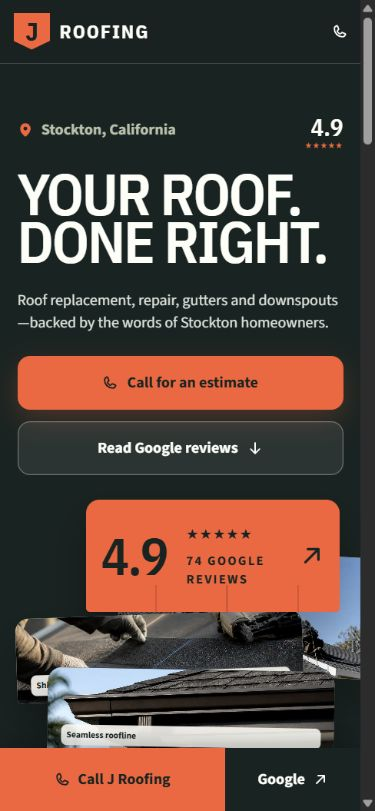
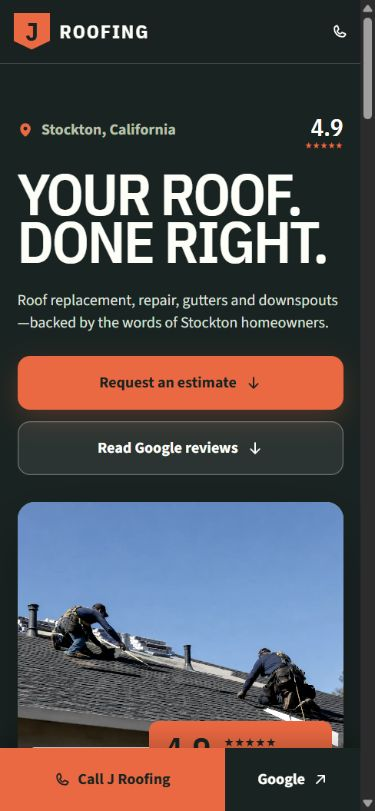
Simplify J Roofing estimate flow

diff --git a/j-roofing/App.tsx b/j-roofing/App.tsx
@@ -1,4 +1,5 @@
 import { ArrowDown, ArrowUpRight, Check, HouseLine, MapPin, Phone, Rows, Wrench } from '@phosphor-icons/react'
+import { useState, type FormEvent } from 'react'
 
 const mapsUrl = 'https://maps.app.goo.gl/vh1RwMz9kn56a45p7'
 
@@ -24,16 +25,26 @@ const services = [
 function Brand() { return <a className="brand" href="#top" aria-label="J Roofing home"><span>J</span><strong>ROOFING</strong></a> }
 
 function App() {
+  const [selectedService, setSelectedService] = useState('Roof replacement')
+
+  function requestEstimate(event: FormEvent<HTMLFormElement>) {
+    event.preventDefault()
+    const data = new FormData(event.currentTarget)
+    const message = `Hi J Roofing, I'd like an estimate.\n\nName: ${data.get('name')}\nPhone: ${data.get('phone')}\nAddress: ${data.get('address')}\nProject: ${data.get('service')}\nDetails: ${data.get('details')}`
+    window.location.href = `sms:+12094837588?body=${encodeURIComponent(message)}`
+  }
+
   return <>
-    <style>{`.mobile-rating{display:none}.sample-repair,.sample-gutter{padding:0}.sample-repair:after,.sample-gutter:after{display:none}.sample-material img{width:100%;height:100%;object-fit:cover;filter:saturate(.72) contrast(1.12)}.sample-material span{position:absolute;inset:auto 14px 14px;z-index:2;padding:7px 10px;border-radius:6px;color:var(--asphalt);background:rgba(255,254,248,.9);font-size:.72rem;font-weight:700}.craft-gallery{padding:0 max(24px,calc((100vw - 1380px)/2)) clamp(96px,10vw,150px);display:grid;grid-template-columns:1.15fr .85fr;gap:18px;background:var(--mineral)}.craft-image{position:relative;min-height:420px;margin:0;overflow:hidden;border-radius:14px;background:var(--asphalt);box-shadow:0 18px 36px rgba(22,35,33,.16)}.craft-image img{width:100%;height:100%;object-fit:cover}.craft-image figcaption{position:absolute;inset:auto 18px 18px;max-width:360px;padding:12px 14px;color:var(--asphalt);background:rgba(255,254,248,.92);border-radius:8px;font-size:.78rem;font-weight:700}.craft-image:last-child{margin-top:72px}@media(max-width:720px){.mobile-rating{position:absolute;top:-4px;right:0;display:flex;flex-direction:column;align-items:flex-end;color:var(--white);text-decoration:none}.mobile-rating strong{font:600 1.55rem/1 'IBM Plex Sans Condensed'}.mobile-rating span{color:var(--orange);font-size:.55rem;letter-spacing:.07em}.hero{padding-bottom:36px;gap:26px}.hero h1{font-size:clamp(3.5rem,15.5vw,4.2rem)}.hero-lead{margin-bottom:22px;font-size:1rem;line-height:1.45}.sample-deck{height:290px}.sample-rating{top:0;right:1%;width:78%;min-height:78px;padding-inline:16px}.sample-photo{top:58px;height:124px}.sample-repair{top:116px;height:88px;min-height:88px}.sample-gutter{top:178px;height:88px;min-height:88px}.rating-number{font-size:3.4rem}.stars{font-size:.95rem}.sample-material span,.sample-photo span{bottom:7px;padding:4px 6px;font-size:.58rem}.craft-gallery{padding:0 18px 88px;grid-template-columns:1fr}.craft-image{min-height:300px}.craft-image:last-child{margin-top:0}}`}</style>
-    <header className="site-header"><div className="nav-shell"><Brand /><nav aria-label="Primary navigation"><a href="#services">Roof systems</a><a href="#reviews">Google reviews</a><a href="#contact">Contact</a></nav><a className="header-call" href="tel:+12094837588"><Phone weight="bold" /> <span>(209) 483-7588</span></a></div></header>
+    <style>{`.mobile-rating{display:none}.hero-visual{position:relative;min-height:540px;overflow:hidden;border-radius:18px;background:var(--sage);box-shadow:0 28px 54px rgba(0,0,0,.28)}.hero-visual>img{width:100%;height:100%;position:absolute;inset:0;object-fit:cover;filter:saturate(.8) contrast(1.08)}.concept-label{position:absolute;left:18px;bottom:18px;padding:8px 11px;border-radius:6px;color:var(--asphalt);background:rgba(255,254,248,.92);font-size:.72rem;font-weight:700}.hero-proof{position:absolute;right:18px;bottom:18px;display:flex;align-items:center;gap:14px;padding:14px 16px;color:var(--asphalt);background:var(--orange);border-radius:10px;text-decoration:none}.hero-proof strong{font:600 2.7rem/.8 'IBM Plex Sans Condensed'}.hero-proof span{display:flex;flex-direction:column;font-size:.75rem;font-weight:700;letter-spacing:.08em}.service{color:inherit;text-decoration:none}.estimate{padding:clamp(96px,10vw,150px) max(24px,calc((100vw - 1380px)/2));display:grid;grid-template-columns:.8fr 1.2fr;gap:clamp(54px,9vw,130px);color:var(--white);background:var(--asphalt)}.estimate-copy p{max-width:480px;color:#cbd5ce;font-size:1.12rem;line-height:1.6}.estimate-form{display:grid;grid-template-columns:1fr 1fr;gap:20px}.estimate-form label{display:grid;gap:8px;font-weight:700}.estimate-form label span{font-size:.76rem;letter-spacing:.09em;text-transform:uppercase}.estimate-form .full{grid-column:1/-1}.estimate-form input,.estimate-form select,.estimate-form textarea{width:100%;min-height:54px;padding:13px 15px;border:1px solid rgba(255,255,255,.28);border-radius:10px;color:var(--white);background:#26332f}.estimate-form textarea{min-height:120px;resize:vertical}.estimate-form select{color-scheme:dark}.estimate-form button{border:0;cursor:pointer}.form-note{grid-column:1/-1;margin:0;color:#aebbb4;font-size:.9rem}.form-note a{color:var(--orange);font-weight:700}.craft-gallery{padding:clamp(96px,10vw,150px) max(24px,calc((100vw - 1380px)/2));display:grid;grid-template-columns:1.15fr .85fr;gap:18px;background:var(--mineral)}.craft-image{position:relative;min-height:420px;margin:0;overflow:hidden;border-radius:14px;background:var(--asphalt);box-shadow:0 18px 36px rgba(22,35,33,.16)}.craft-image img{width:100%;height:100%;object-fit:cover}.craft-image figcaption{position:absolute;inset:auto 18px 18px;max-width:360px;padding:12px 14px;color:var(--asphalt);background:rgba(255,254,248,.92);border-radius:8px;font-size:.78rem;font-weight:700}.craft-image:last-child{margin-top:72px}@media(max-width:720px){.mobile-rating{position:absolute;top:-4px;right:0;display:flex;flex-direction:column;align-items:flex-end;color:var(--white);text-decoration:none}.mobile-rating strong{font:600 1.55rem/1 'IBM Plex Sans Condensed'}.mobile-rating span{color:var(--orange);font-size:.55rem;letter-spacing:.07em}.hero{padding-bottom:36px;gap:28px}.hero h1{font-size:clamp(3.5rem,15.5vw,4.2rem)}.hero-lead{margin-bottom:22px;font-size:1rem;line-height:1.45}.hero-visual{min-height:300px}.concept-label{left:12px;bottom:12px}.hero-proof{right:12px;bottom:12px}.hero-proof strong{font-size:2.2rem}.estimate{padding:88px 18px;grid-template-columns:1fr;gap:42px}.estimate-form{grid-template-columns:1fr}.estimate-form .full{grid-column:auto}.craft-gallery{padding:88px 18px;grid-template-columns:1fr}.craft-image{min-height:300px}.craft-image:last-child{margin-top:0}}`}</style>
+    <header className="site-header"><div className="nav-shell"><Brand /><nav aria-label="Primary navigation"><a href="#services">Roof systems</a><a href="#estimate">Request estimate</a><a href="#reviews">Google reviews</a></nav><a className="header-call" href="tel:+12094837588"><Phone weight="bold" /> <span>(209) 483-7588</span></a></div></header>
     <main id="top">
       <section className="hero">
-        <div className="hero-copy"><p className="location"><MapPin weight="fill" /> Stockton, California</p><a className="mobile-rating" href={mapsUrl} target="_blank" rel="noreferrer" aria-label="4.9 stars from 74 Google reviews"><strong>4.9</strong><span>★★★★★</span></a><h1>Your roof.<br />Done right.</h1><p className="hero-lead">Roof replacement, repair, gutters and downspouts—backed by the words of Stockton homeowners.</p><div className="hero-actions"><a className="button button-primary" href="tel:+12094837588"><Phone weight="bold" /> Call for an estimate</a><a className="button button-quiet" href="#reviews">Read Google reviews <ArrowDown weight="bold" /></a></div></div>
-        <div className="sample-deck" aria-label="J Roofing Google rating and roofing craft"><div className="sample sample-photo"><img src="/roofing/j-roofing/assets/j-roofing-crew.webp" alt="Concept image of a roofing crew installing charcoal shingles" /><span>Original crew concept</span></div><div className="sample sample-material sample-repair"><img src="/roofing/j-roofing/assets/j-roofing-shingle-detail.webp" alt="Concept detail of hands aligning architectural shingles" /><span>Shingle alignment</span></div><div className="sample sample-material sample-gutter"><img src="/roofing/j-roofing/assets/j-roofing-gutters.webp" alt="Concept detail of a dark bronze gutter and downspout" /><span>Seamless roofline</span></div><a className="sample sample-rating" href={mapsUrl} target="_blank" rel="noreferrer" aria-label="View J Roofing on Google Maps"><span className="rating-number">4.9</span><span><span className="stars" aria-label="4.9 out of 5 stars">★★★★★</span><small>74 GOOGLE REVIEWS</small></span><ArrowUpRight weight="bold" /></a></div>
+        <div className="hero-copy"><p className="location"><MapPin weight="fill" /> Stockton, California</p><a className="mobile-rating" href={mapsUrl} target="_blank" rel="noreferrer" aria-label="4.9 stars from 74 Google reviews"><strong>4.9</strong><span>★★★★★</span></a><h1>Your roof.<br />Done right.</h1><p className="hero-lead">Roof replacement, repair, gutters and downspouts—backed by the words of Stockton homeowners.</p><div className="hero-actions"><a className="button button-primary" href="#estimate">Request an estimate <ArrowDown weight="bold" /></a><a className="button button-quiet" href="#reviews">Read Google reviews <ArrowDown weight="bold" /></a></div></div>
+        <div className="hero-visual"><img src="/roofing/j-roofing/assets/j-roofing-crew.webp" alt="Concept image of a roofing crew installing charcoal shingles" /><span className="concept-label">Original crew concept</span><a className="hero-proof" href={mapsUrl} target="_blank" rel="noreferrer" aria-label="View 4.9 rating from 74 Google reviews"><strong>4.9</strong><span>★★★★★<small>74 Google reviews</small></span></a></div>
       </section>
       <section className="proof-strip" aria-label="Business details"><div><Check weight="bold" /><span><small>GOOGLE RATING</small><strong>4.9 from 74 reviews</strong></span></div><div><MapPin weight="bold" /><span><small>ADDRESS</small><strong>1728 E Market St, Stockton</strong></span></div><div><Phone weight="bold" /><span><small>PHONE</small><strong>(209) 483-7588</strong></span></div></section>
-      <section className="services" id="services"><div className="services-intro"><h2>One crew.<br />The whole roofline.</h2><p>J Roofing’s public customer reviews repeatedly mention clear estimates, punctual crews, daily cleanup and careful work—from full reroofs to gutters and dry-rot repairs.</p></div><div className="service-list">{services.map(({ icon: Icon, title, text }) => <article className="service" key={title}><Icon weight="regular" /><div><h3>{title}</h3><p>{text}</p></div><ArrowUpRight weight="bold" /></article>)}</div></section>
+      <section className="services" id="services"><div className="services-intro"><h2>One crew.<br />The whole roofline.</h2><p>J Roofing’s public customer reviews repeatedly mention clear estimates, punctual crews, daily cleanup and careful work—from full reroofs to gutters and dry-rot repairs.</p></div><div className="service-list">{services.map(({ icon: Icon, title, text }) => <a className="service" href="#estimate" onClick={() => setSelectedService(title)} key={title} aria-label={`Request an estimate for ${title}`}><Icon weight="regular" /><div><h3>{title}</h3><p>{text}</p></div><ArrowUpRight weight="bold" /></a>)}</div></section>
+      <section className="estimate" id="estimate"><div className="estimate-copy"><h2>Tell us about your roof.</h2><p>Share the basics and your phone will open a ready-to-send text to J Roofing. No account or upload needed.</p></div><form className="estimate-form" onSubmit={requestEstimate}><label><span>Name</span><input name="name" autoComplete="name" required /></label><label><span>Phone</span><input name="phone" type="tel" autoComplete="tel" required /></label><label className="full"><span>Property address</span><input name="address" autoComplete="street-address" required /></label><label className="full"><span>What do you need?</span><select name="service" value={selectedService} onChange={(event) => setSelectedService(event.target.value)}>{services.map(({ title }) => <option key={title}>{title}</option>)}</select></label><label className="full"><span>Project details</span><textarea name="details" placeholder="Leak location, roof age, timing, or anything else helpful" required /></label><button className="button button-primary full" type="submit"><Phone weight="bold" /> Open text message</button><p className="form-note">Submitting opens your messaging app. Prefer to talk? <a href="tel:+12094837588">Call (209) 483-7588</a>.</p></form></section>
       <section className="craft-gallery" aria-label="Roofing craft details"><figure className="craft-image"><img src="/roofing/j-roofing/assets/j-roofing-shingle-detail.webp" alt="Concept detail of hands carefully aligning architectural shingles" /><figcaption>Shingle alignment · Original concept image for this pitch</figcaption></figure><figure className="craft-image"><img src="/roofing/j-roofing/assets/j-roofing-gutters.webp" alt="Concept detail of a seamless gutter and downspout" /><figcaption>Seamless roofline · Original concept image for this pitch</figcaption></figure></section>
       <section className="reviews" id="reviews"><div className="review-heading"><div><h2>Stockton says it best.</h2><p>Ten excerpts from J Roofing’s public Google reviews. Lightly trimmed for length; wording preserved.</p></div><a className="google-link" href={mapsUrl} target="_blank" rel="noreferrer">See all 74 on Google <ArrowUpRight weight="bold" /></a></div><div className="review-grid">{reviews.map((review, index) => <article className={`review-card review-${index + 1}`} key={review.name}><div className="review-top"><span className="avatar" aria-hidden="true">{review.name[0].toUpperCase()}</span><div><strong>{review.name}</strong><small>{review.ago} · Google review</small></div><span className="mini-stars" aria-label="5 stars">★★★★★</span></div><p>“{review.text}”</p></article>)}</div></section>
       <section className="contact" id="contact"><div className="contact-copy"><h2>Start with the roof.</h2><p>Tell J Roofing what you’re seeing and ask for an estimate. One direct call is the shortest path.</p></div><div className="contact-actions"><a className="contact-call" href="tel:+12094837588"><small>CALL J ROOFING</small><strong>(209) 483-7588</strong><Phone weight="bold" /></a><a className="contact-map" href={mapsUrl} target="_blank" rel="noreferrer"><span>Open the verified Google listing</span><ArrowUpRight weight="bold" /></a></div></section>

diff --git a/j-roofing/DESIGN.md b/j-roofing/DESIGN.md
@@ -1,6 +1,6 @@
 ---
-name: J Roofing Material Sample Deck
-description: A proof-first Stockton roofing pitch built from tactile material bands, verified reviews, and direct contact.
+name: J Roofing Roofline Evidence Board
+description: A proof-first Stockton roofing pitch built from direct craft imagery, verified reviews, and low-friction estimate contact.
 colors:
   asphalt: "#162321"
   mineral: "#f2f0e7"
@@ -68,28 +68,34 @@ components:
     textColor: "{colors.asphalt}"
     rounded: "{rounded.card}"
     padding: "30px"
+  estimate-field:
+    backgroundColor: "{colors.review-field}"
+    textColor: "{colors.paper}"
+    rounded: "10px"
+    padding: "13px 15px"
+    height: "54px"
 ---
 
-# Design System: J Roofing Material Sample Deck
+# Design System: J Roofing Roofline Evidence Board
 
 ## Overview
 
-**Creative North Star: "The Material Sample Deck"**
+**Creative North Star: "The Roofline Evidence Board"**
 
-J Roofing is presented through the tactile language of a contractor's physical sample kit: overlapping shingle-like bands, clipped roof geometry, restrained mineral colors, and precise soft depth. Monumental condensed type supplies confidence while verified Google proof—not invented claims—does the persuading.
+J Roofing is presented as a clear roofline evidence board: one strong, visibly disclosed crew concept establishes craft, a compact Google badge supplies verified proof, and direct service and estimate actions carry the visitor forward. Monumental condensed type supplies confidence while customer language—not invented claims—does the persuading.
 
 This is a route-specific visual world. It must not inherit another roofing template, its section format, its imagery, or its decorative assets; only shared product facts may cross route boundaries.
 
 **Key Characteristics:**
 
-- A fanned stack of material and proof bands replaces the generic house-photo hero.
+- One generated crew image anchors the hero, paired with a compact verified Google proof badge.
 - Asphalt green and mineral paper provide the field; safety orange is the action and proof signal.
-- Google evidence and direct calling stay visible at decision points, especially on mobile.
+- Service rows lead directly to a preselected estimate request; the form opens a prefilled SMS to the verified phone.
 - Generated roofing photography is treated as illustrative concept material, never company project evidence.
 
 ## Colors
 
-The palette feels like charcoal roofing, mineral granules, aged sage material samples, and one high-visibility contractor marker.
+The palette feels like charcoal roofing, mineral granules, aged sage roof material, and one high-visibility contractor marker.
 
 ### Primary
 
@@ -97,8 +103,8 @@ The palette feels like charcoal roofing, mineral granules, aged sage material sa
 
 ### Secondary
 
-- **Sage Shingle:** A tactile material color for sample bands and selected review emphasis.
-- **Gutter Green:** A dark metal-like secondary band and review-card variation.
+- **Sage Shingle:** A tactile image fallback and selected review emphasis.
+- **Gutter Green:** A dark metal-like review-card variation.
 
 ### Neutral
 
@@ -136,26 +142,26 @@ The palette feels like charcoal roofing, mineral granules, aged sage material sa
 
 ## Layout
 
-The desktop field is capped at 1380px with fluid outer gutters. The 74px fixed header frames a two-column hero: concise sales copy occupies the smaller column and the fanned sample deck occupies the larger. Services repeat the asymmetric split with a sticky introduction and ruled records. Reviews use a 12-column masonry-like arrangement; contact closes in two balanced columns.
+The desktop field is capped at 1380px with fluid outer gutters. The 74px fixed header frames a two-column hero: concise sales copy occupies the smaller column and one 540px-minimum crew image with an overlaid proof badge occupies the larger. Services repeat the asymmetric split with a sticky introduction and actionable ruled records. The dark estimate section uses an 0.8/1.2 copy-to-form split before the craft gallery and review proof. Reviews use a 12-column masonry-like arrangement; contact closes in two balanced columns.
 
-At 980px, navigation is removed, service content stacks, and reviews become two-up. At 720px, gutters reduce to 18px, the header becomes 66px, hero and contact become one column, actions become full-width, the sample deck compresses into a 290px stack, and reviews become an 86vw horizontal snap rail. A fixed 66px bottom bar preserves call and Google actions; footer space clears it.
+At 980px, navigation is removed, service content stacks, and reviews become two-up. At 720px, gutters reduce to 18px, the header becomes 66px, hero, estimate, gallery, and contact become one column, actions become full-width, the hero image becomes a 300px field, and reviews become an 86vw horizontal snap rail. Form fields stack in source order. A fixed 66px bottom bar preserves call and Google actions; footer space clears it.
 
-**The Proof-in-Reach Rule.** Every major layout state keeps a call path and Google proof within immediate reach without introducing a form or unsupported promise.
+**The Proof-in-Reach Rule.** Every major layout state keeps estimate, call, and Google proof paths within immediate reach without inventing a service promise.
 
 ## Elevation & Depth
 
-Depth is tactile and localized. Sample bands overlap, rotate slightly, and separate with broad shadows; cards and contact actions use softer lift. Ruled service rows and proof strips stay flat so the sample deck remains the signature dimensional moment.
+Depth is tactile and localized. The single hero image carries the strongest broad shadow; cards and contact actions use softer lift. Ruled service rows, form fields, and proof strips stay flat so imagery and action retain clear hierarchy.
 
-- **Sample band:** `0 22px 40px rgba(0,0,0,.24)` for the fanned material stack.
+- **Hero visual:** `0 28px 54px rgba(0,0,0,.28)` for the single crew concept image.
 - **Review card:** `0 14px 30px rgba(3,12,10,.16)` for customer excerpts.
 - **Primary control:** orange-tinted lift that grows from `0 10px 28px rgba(255,92,53,.24)` on hover.
 - **Dark contact action:** `0 16px 34px rgba(22,35,33,.24)`.
 
-**The Tactile Center Rule.** Concentrate rotation, overlap, and perspective in the sample deck; the rest of the route organizes evidence calmly.
+**The Single Visual Anchor Rule.** Keep the hero to one clearly disclosed image with one compact proof badge; the rest of the route organizes evidence calmly.
 
 ## Shapes
 
-Rounded rectangles resemble sample tabs and physical swatches: controls use 13px corners, cards and image frames use 14px, and small disclosure labels use 6–8px. The brand's orange J shield is the one clipped polygon; circular geometry is limited to reviewer initials. Do not introduce blob shapes or unrelated ornamental silhouettes.
+Rounded rectangles feel practical rather than soft: form fields and the hero proof badge use 10px corners, controls use 13px, review and gallery cards use 14px, the hero visual uses 18px, and disclosure labels use 6–8px. The brand's orange J shield is the one clipped polygon; circular geometry is limited to reviewer initials. Do not introduce blob shapes or unrelated ornamental silhouettes.
 
 ## Components
 
@@ -167,7 +173,7 @@ Rounded rectangles resemble sample tabs and physical swatches: controls use 13px
 
 ### Cards / Containers
 
-- **Sample Deck:** Four overlapping bands—concept crew image, shingle detail, gutter detail, and Google rating—with small, restrained rotations and a shared lower-edge tick pattern where applicable.
+- **Hero Visual:** One full-bleed crew concept image with a visible disclosure at lower left and an orange Google proof badge at lower right. Do not reintroduce stacked or rotating image bands.
 - **Review Card:** Paper, orange, sage, and gutter-green variants in a deliberately irregular grid; 14px corners and 30px padding.
 - **Proof Strip:** Three edge-to-edge ruled records on orange; it is not a floating card group.
 
@@ -177,7 +183,11 @@ The fixed asphalt header uses the clipped orange J mark, centered desktop links,
 
 ### Service Row
 
-Each full-width ruled record pairs an orange line icon, condensed service title, short evidence-led explanation, and an arrow that moves diagonally on hover. Rows never become generic cards.
+Each full-width ruled record is an accessible estimate link pairing an orange line icon, condensed service title, short evidence-led explanation, and an arrow that moves diagonally on hover. Activating a row moves to the estimate form and preselects that exact service. Rows never become generic cards.
+
+### Estimate Form
+
+The native form sits on Asphalt in a two-column grid with explicit visible labels. Inputs, select, and textarea use Review Field fill, Paper text, 10px corners, 54px minimum control height, and high-contrast focus. Submission does not send data to a server: it opens the visitor's messaging app with a prefilled SMS to the verified J Roofing number. The note beneath the button must state this behavior and retain the direct call alternative. Name, phone, property address, selected service, and project details remain required.
 
 ### Concept Image Label
 
@@ -187,9 +197,11 @@ Generated imagery must be identified as concept material in useful alt text and 
 
 ### Do:
 
-- **Do** keep the sample deck as the route's unique first-viewport device.
+- **Do** keep the first viewport to one disclosed crew concept image and one compact Google proof badge.
 - **Do** separate verified Google facts and customer quotations from illustrative photography.
 - **Do** preserve the 980px and 720px layout changes, reduced-motion behavior, visible focus, and mobile contact bar.
+- **Do** make every service row link to the estimate form with its service preselected.
+- **Do** disclose that estimate submission opens a prefilled SMS to the verified phone and keep the direct-call fallback.
 - **Do** source every new visual specifically for this route and label generated imagery as concept material.
 
 ### Don't:
@@ -197,4 +209,5 @@ Generated imagery must be identified as concept material in useful alt text and 
 - **Don't** reuse a prior website template, imagery set, page format, signature component, or decorative asset.
 - **Don't** imply that generated crew, shingle, or gutter images document J Roofing's completed projects.
 - **Don't** invent licensing, warranties, financing, certifications, response times, project history, or owner-approved service claims.
-- **Don't** replace the fanned material logic with a generic contractor hero, feature-card grid, or stock-roof collage.
+- **Don't** reintroduce a layered sample deck, multi-image hero collage, or generic contractor feature-card grid.
+- **Don't** imply the estimate form submits to a backend, stores information, or contacts the business automatically.

diff --git a/PRODUCT.md b/PRODUCT.md
@@ -21,12 +21,12 @@ A pitch-ready website concept for J Roofing, a roofing contractor listed in Stoc
 
 ## Positioning
 
-The site frames careful roofing craft through a fanned material-sample deck, then lets Stockton customers provide the proof.
+The site frames careful roofing craft through one clear crew image, then lets Stockton customers provide the proof.
 
 ## Operating context
 
-- Primary action: call the public listing phone number.
-- Secondary action: open the verified Google listing and read reviews.
+- Primary action: request an estimate through a short form that opens a prefilled text to the public listing phone number.
+- Secondary actions: call directly or open the verified Google listing and read reviews.
 
 ## Evidence on hand
 
